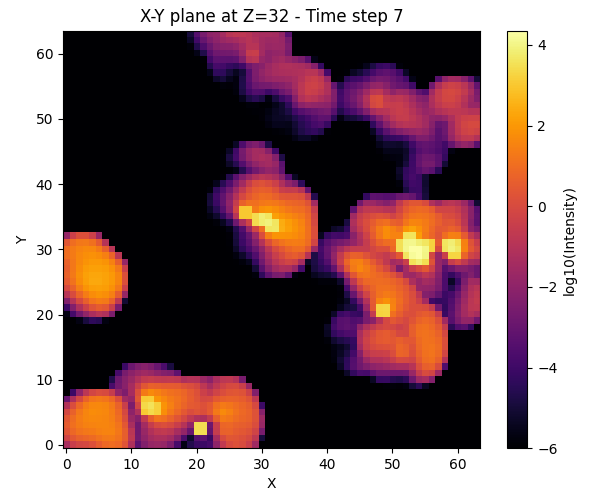
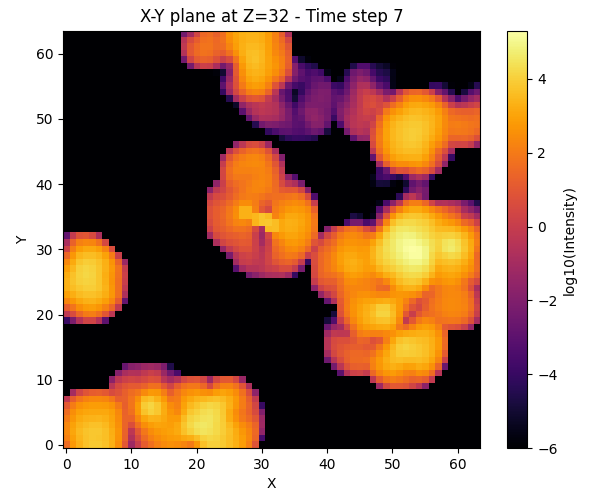
bug fixing

diff --git a/ray_trax/ray_trax_3D_tdep.py b/ray_trax/ray_trax_3D_tdep.py
@@ -1,6 +1,8 @@
 import jax
 import jax.numpy as jnp
+import numpy as np
 from functools import partial
+from jax.sharding import NamedSharding, PartitionSpec as P
 
 def sample_sphere(n):
     i = jnp.arange(0, n)
@@ -89,12 +91,12 @@ def compute_radiation_field_from_source_with_time_step(
         def body_fn(i, state):
             x, y, z, I, tau, J = state
             j_val = trilinear_op(j_map, x, y, z, mode="interp")
-            kappa_val = trilinear_op(kappa_map, x, y, z, mode="interp") #maybe issue, see possible fixing below
-            #ix = jnp.clip(jnp.floor(x).astype(int), 0, Nx - 1)
-            #iy = jnp.clip(jnp.floor(y).astype(int), 0, Ny - 1)
-            #iz = jnp.clip(jnp.floor(y).astype(int), 0, Nz - 1)
+            #kappa_val = trilinear_op(kappa_map, x, y, z, mode="interp") #maybe issue, see possible fixing below
+            ix = jnp.clip(jnp.floor(x).astype(int), 0, Nx - 1)
+            iy = jnp.clip(jnp.floor(y).astype(int), 0, Ny - 1)
+            iz = jnp.clip(jnp.floor(y).astype(int), 0, Nz - 1)
 
-            #kappa_val = kappa_map[ix,iy,iz]
+            kappa_val = kappa_map[ix,iy,iz]
 
             d_tau = kappa_val * step_size
             dI = j_val * jnp.exp(-tau) * step_size
@@ -111,15 +113,39 @@ def compute_radiation_field_from_source_with_time_step(
         return final_state[-1]  # Return J
 
     if use_sharding:
-        # Placeholder: implement sharding if needed
-        raise NotImplementedError("Sharding not implemented yet.")
+        # Build mesh and sharding
+        devices = jax.devices()
+        n_devices = len(devices)
+
+        if num_rays % n_devices != 0:
+            raise ValueError(f"num_rays ({num_rays}) must be divisible by number of devices ({n_devices}).")
+
+        mesh_shape = (n_devices,)
+        mesh = jax.sharding.Mesh(np.array(devices).reshape(mesh_shape), axis_names=('x',))
+        sharding = NamedSharding(mesh, P('x', None))  # rays over 'x', each ray is a (3,) vector
+
+        # Reshape and shard directions
+        directions_reshaped = directions.reshape((n_devices, -1, 3))
+        directions_sharded = jax.device_put(directions_reshaped, sharding)
+
+        # Apply vmap over each shard
+        @jax.vmap  # Automatically parallel within each device
+        def trace_ray_batch(dir_batch):
+            return jax.vmap(trace_single_ray)(dir_batch)
+
+        with mesh:
+            J_all_sharded = trace_ray_batch(directions_sharded)  # [n_devices, rays_per_device, Nx, Ny, Nz]
+
+        # Merge all rays
+        J_all = J_all_sharded.reshape((num_rays, *j_map.shape))  # [num_rays, Nx, Ny, Nz]
+
     else:
         J_all = jax.vmap(trace_single_ray)(directions)
 
     return jnp.sum(J_all, axis=0) * (4 * jnp.pi / num_rays)
 
 
-
+'''
 def compute_radiation_field_from_multiple_sources_with_time_step(
     j_map, kappa_map, source_positions,
     num_rays=1000, step_size=0.5,
@@ -140,4 +166,32 @@ def compute_radiation_field_from_multiple_sources_with_time_step(
             use_sharding=use_sharding
         )
     return I_total
+'''
 
+def compute_radiation_field_from_multiple_sources_with_time_step(
+    j_map, kappa_map, source_positions,
+    num_rays=1000, step_size=0.5,
+    radiation_velocity=1.0, time_step=1.0,
+    use_sharding=False
+):
+    """
+    Compute the radiation field within one time step from multiple sources using lax.fori_loop.
+    """
+
+    def body_fn(i, I_total):
+        source_pos = source_positions[i]
+        I_new = compute_radiation_field_from_source_with_time_step(
+            j_map, kappa_map, source_pos,
+            num_rays=num_rays,
+            step_size=step_size,
+            radiation_velocity=radiation_velocity,
+            time_step=time_step,
+            use_sharding=use_sharding
+        )
+        return I_total + I_new
+
+    num_sources = source_positions.shape[0]
+    I_total = jnp.zeros_like(j_map)
+    I_total = jax.lax.fori_loop(0, num_sources, body_fn, I_total)
+
+    return I_total

diff --git a/example_3D_time_dep.py b/example_3D_time_dep.py
@@ -1,5 +1,6 @@
 import os
-os.environ["CUDA_VISIBLE_DEVICES"] = "7"
+os.environ["CUDA_VISIBLE_DEVICES"] = "0, 3, 4, 5, 6, 7, 8, 9"
+import gc
 
 import time
 import numpy as np
@@ -16,14 +17,14 @@ from ray_trax.ray_trax_3D_tdep import (
 )
 
 # Config
-Nx, Ny, Nz = 64, 64, 64
+Nx, Ny, Nz = 128, 128, 128
 key = random.PRNGKey(111)
 
 # Generate absorption field and mask
 kappa, mask = generate_correlated_lognormal_field_3D(
     key, shape=(Nx, Ny, Nz),
     mean=1.0, length_scale=0.05,
-    sigma_g=1.2, percentile=99.5
+    sigma_g=1.2, percentile=99.99
 )
 
 # Get star positions
@@ -56,7 +57,7 @@ for step in range(int(total_time / dt)):
         step_size=0.5,
         radiation_velocity=c,
         time_step=dt * step,
-        use_sharding=False
+        use_sharding=True
     )
 
     # Force evaluation and break JAX graph
@@ -76,6 +77,10 @@ for step in range(int(total_time / dt)):
     plt.savefig(filename)
     filenames.append(filename)
     plt.close()
+    
+    del J_step               # drop Python reference
+    gc.collect()             # free DeviceArray objects
+    jax.clear_caches()     # tear down compiled executables
 
 tend = time.time()
 print("Total simulation time:", tend - tstart)

diff --git a/ray_trax/ray_trax_3D.py b/ray_trax/ray_trax_3D.py
@@ -81,12 +81,12 @@ def compute_radiation_field_from_source(
         def body_fn(i, state):
             x, y, z, I, tau, J = state
             j_val = trilinear_op(j_map, x, y, z, mode="interp")
-            kappa_val = trilinear_op(kappa_map, x, y, z, mode="interp") # this have problems, solution here in comment:
-            #ix = jnp.clip(jnp.floor(x).astype(int), 0, Nx - 1)
-            #iy = jnp.clip(jnp.floor(y).astype(int), 0, Ny - 1)
-            #iz = jnp.clip(jnp.floor(y).astype(int), 0, Nz - 1)
+            #kappa_val = trilinear_op(kappa_map, x, y, z, mode="interp") # this have problems, solution here in comment:
+            ix = jnp.clip(jnp.floor(x).astype(int), 0, Nx - 1)
+            iy = jnp.clip(jnp.floor(y).astype(int), 0, Ny - 1)
+            iz = jnp.clip(jnp.floor(y).astype(int), 0, Nz - 1)
 
-            #kappa_val = kappa_map[ix,iy,iz]
+            kappa_val = kappa_map[ix,iy,iz]
 
             ds = step_size
             d_tau = kappa_val * ds

diff --git a/ray_trax/ray_trax_3D_direction.py b/ray_trax/ray_trax_3D_direction.py
@@ -75,12 +75,12 @@ def compute_radiation_field_from_source(
         def body_fn(i, state):
             x, y, z, I, tau, J, D = state
             j_val = trilinear_op(j_map, x, y, z, mode="interp")
-            kappa_val = trilinear_op(kappa_map, x, y, z, mode="interp") #can have issues, see solution below
-            #ix = jnp.clip(jnp.floor(x).astype(int), 0, Nx - 1)
-            #iy = jnp.clip(jnp.floor(y).astype(int), 0, Ny - 1)
-            #iz = jnp.clip(jnp.floor(y).astype(int), 0, Nz - 1)
+            #kappa_val = trilinear_op(kappa_map, x, y, z, mode="interp") #can have issues, see solution below
+            ix = jnp.clip(jnp.floor(x).astype(int), 0, Nx - 1)
+            iy = jnp.clip(jnp.floor(y).astype(int), 0, Ny - 1)
+            iz = jnp.clip(jnp.floor(y).astype(int), 0, Nz - 1)
 
-            #kappa_val = kappa_map[ix,iy,iz]
+            kappa_val = kappa_map[ix,iy,iz]
 
             ds = step_size
             d_tau = kappa_val * ds
